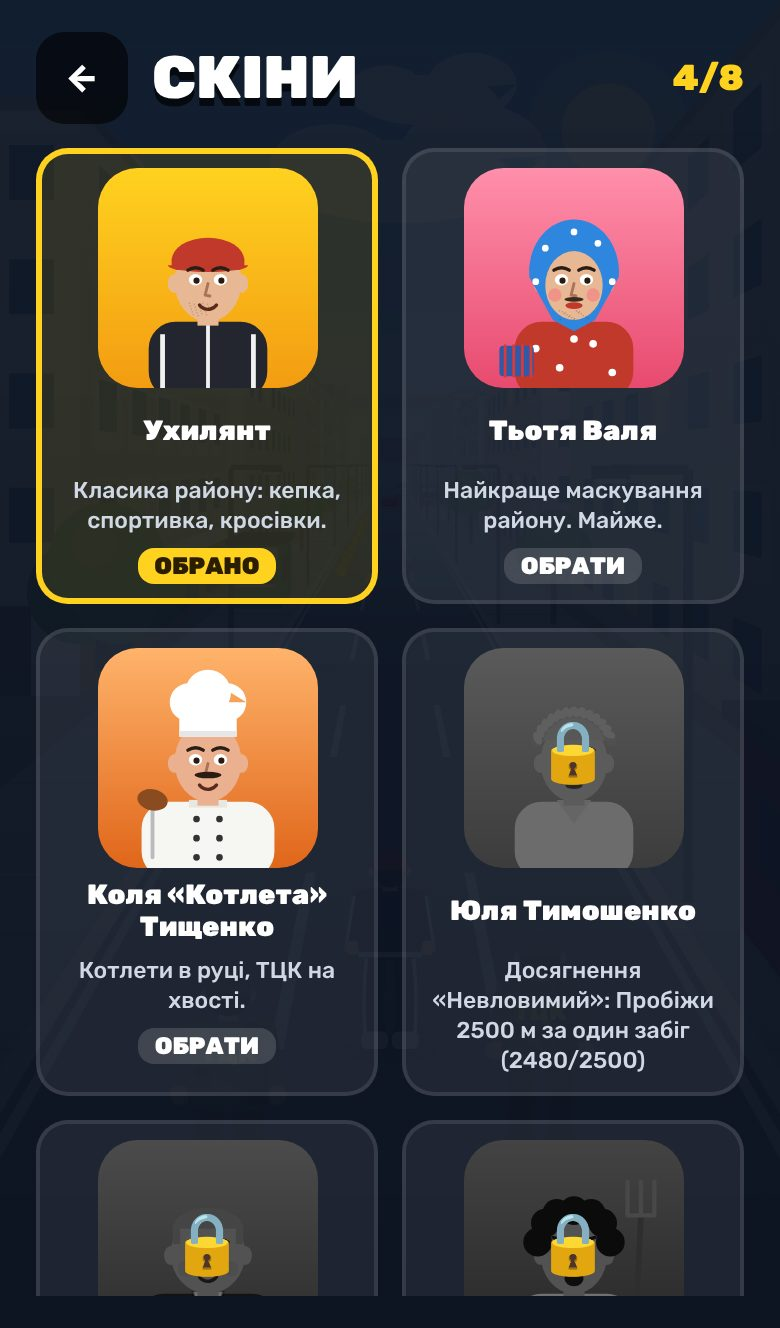
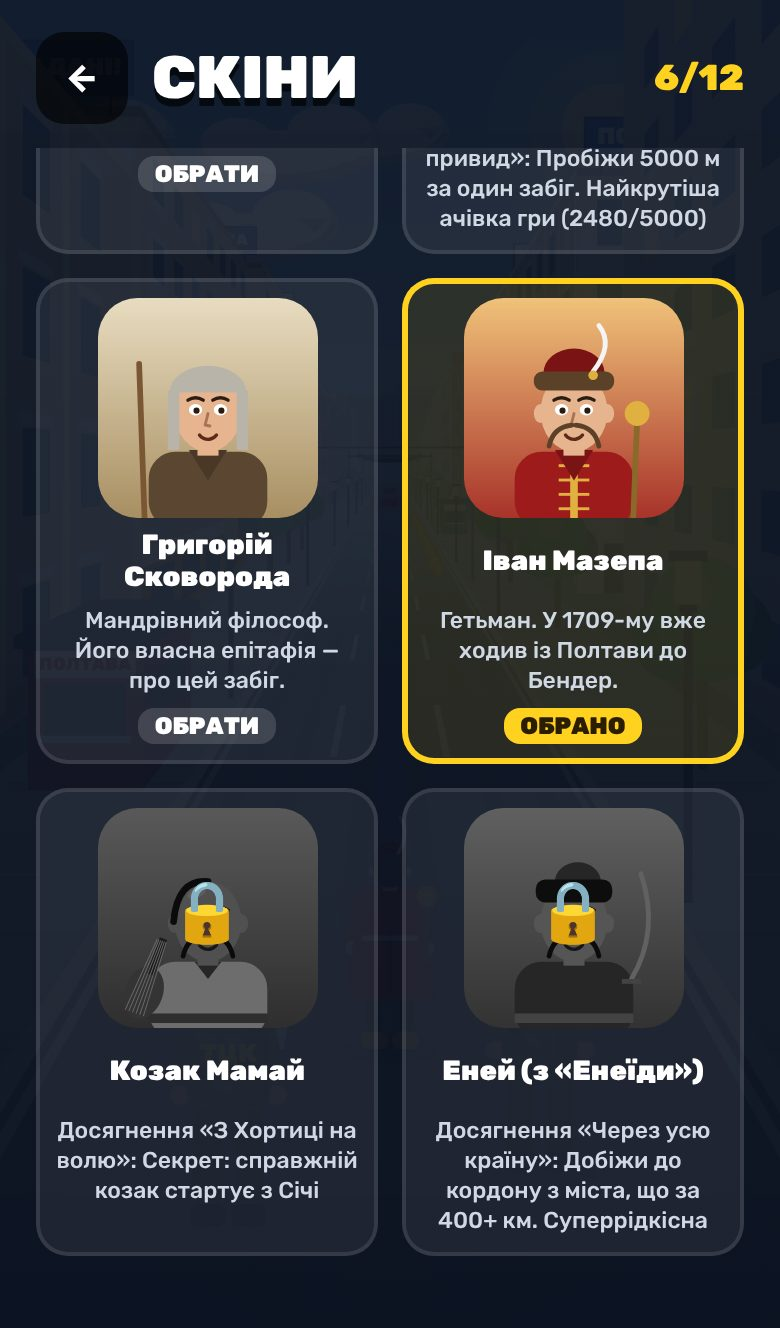
Docs: city screenshots (Kyiv, Lviv, Odesa) and the new skins
Claude-Session: https://claude.ai/code/session_01Q6dqxBzcB3yxjy4C2Emsx4

diff --git a/README.md b/README.md
@@ -5,6 +5,12 @@
 таксофон із корешем на «копійці», дрон під обстрілом ППО та цілий набір пасхалок.
 
 <p>
+  <img src="docs/kyiv.jpg" width="200" alt="Київ">
+  <img src="docs/lviv.jpg" width="200" alt="Львів">
+  <img src="docs/odesa.jpg" width="200" alt="Одеса">
+  <img src="docs/skins.jpg" width="200" alt="Скіни">
+</p>
+<p>
   <img src="docs/menu.jpg" width="200" alt="Меню">
   <img src="docs/village.jpg" width="200" alt="Село">
   <img src="docs/drone.jpg" width="200" alt="Дрон">
@@ -13,7 +19,6 @@
 <p>
   <img src="docs/gameplay.jpg" width="200" alt="Гра">
   <img src="docs/night.jpg" width="200" alt="Ніч">
-  <img src="docs/skins.jpg" width="200" alt="Скіни">
   <img src="docs/achievements.jpg" width="200" alt="Досягнення">
 </p>
 
